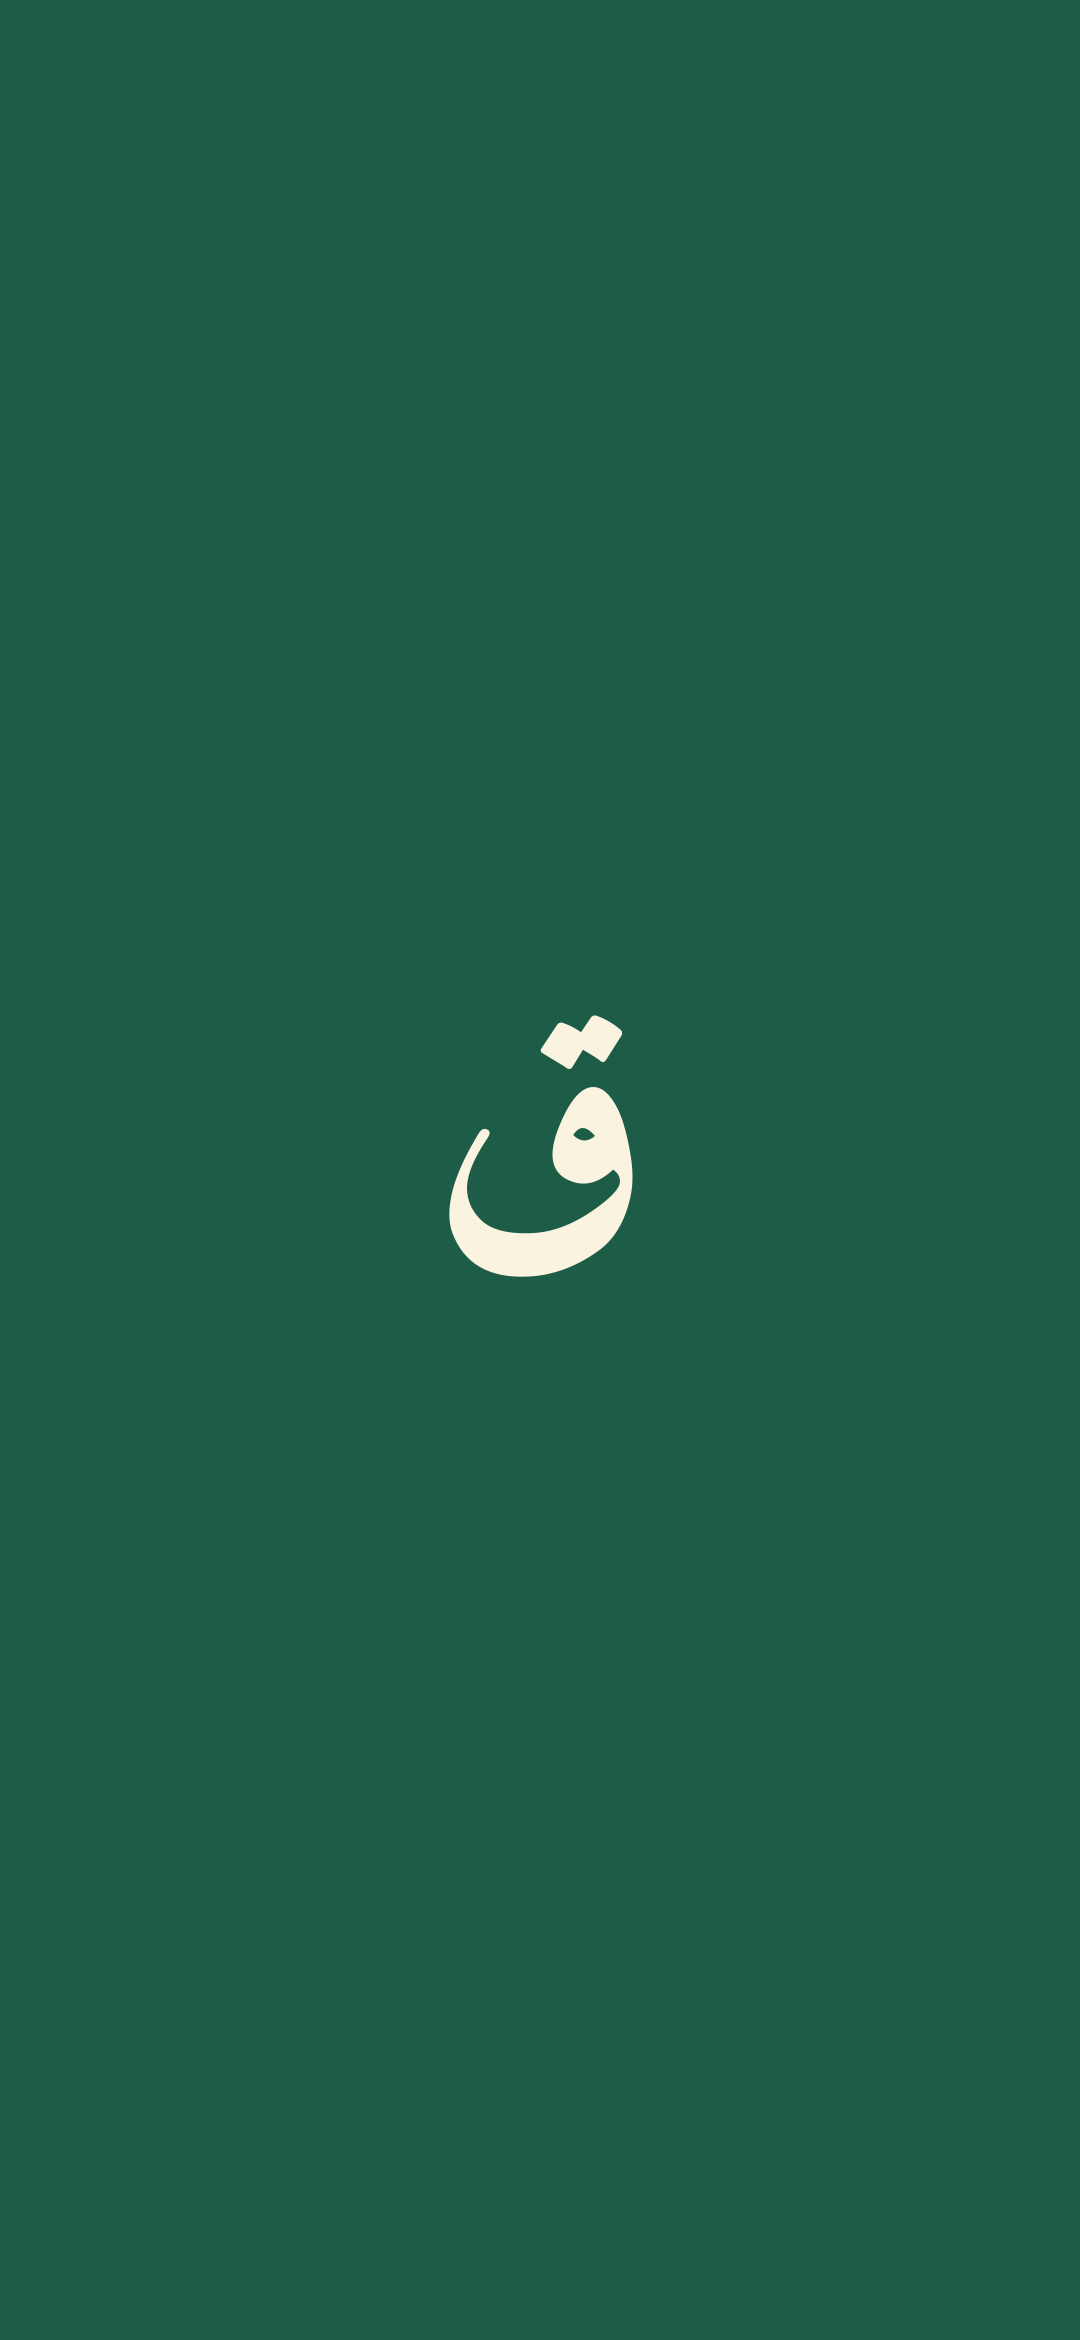
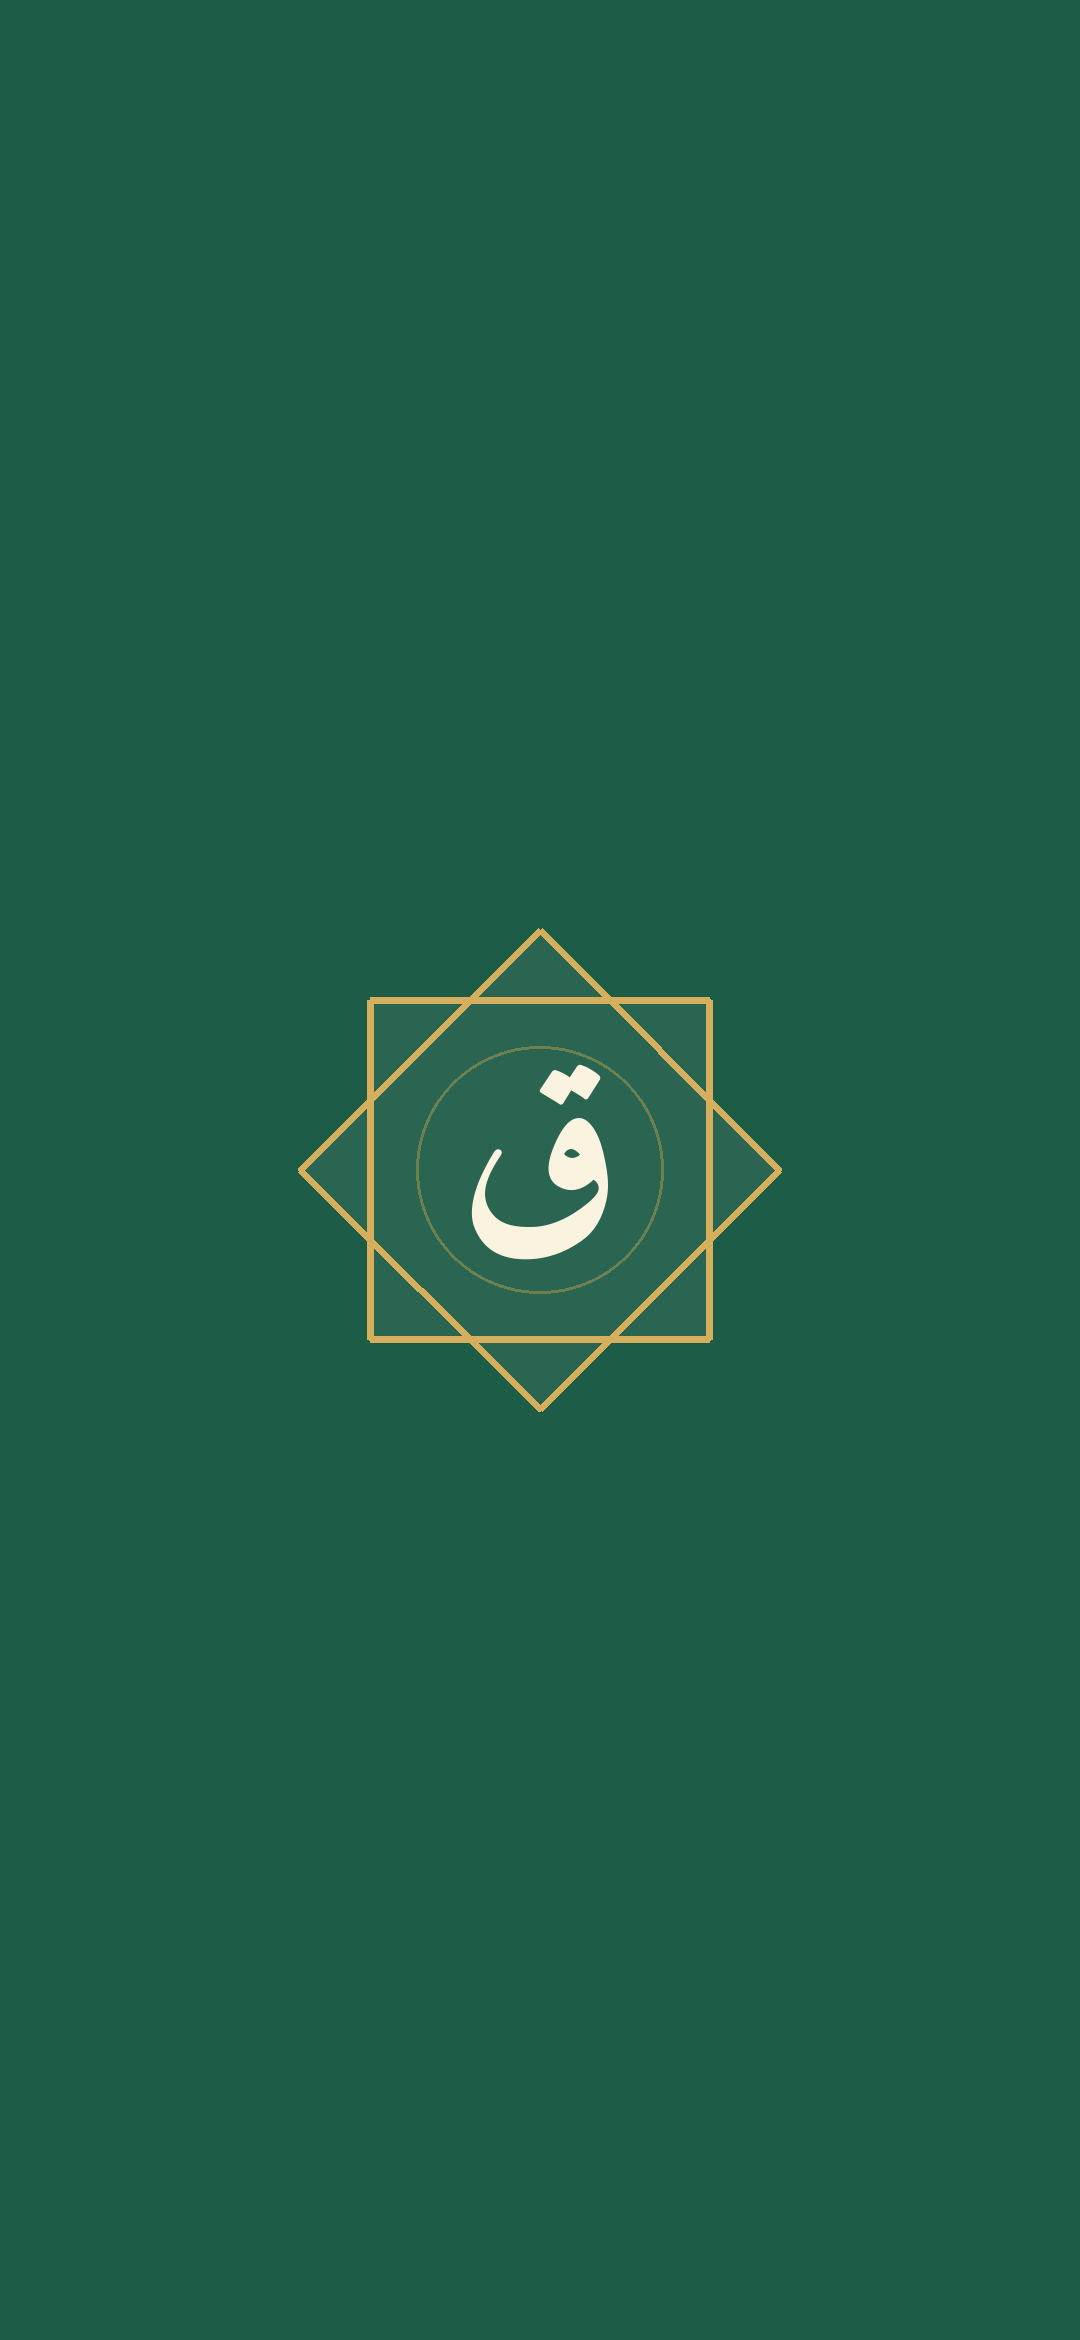
Nouvelle icône, ouverture au calame doré et salutation dans la barre
- Icône : ق crème sur étoile à 8 branches or, dans la zone que les téléphones ne coupent pas
- Écrans de démarrage iPhone et ouverture reprennent la même image : un calame doré repasse
  sur le ق, l'étoile pivote d'un huitième de tour, puis la page s'ouvre (1,2 s)
- « السلام عليكم » + prénom remplace le titre de la barre quelques secondes, sans rien recouvrir

Changed region(s): [[0.275, 0.3744, 0.7028, 0.5927], [0.4889, 0.5927, 0.5194, 0.6239]]

diff --git a/src/app/globals.css b/src/app/globals.css
@@ -3529,7 +3529,7 @@ button:active:not(:disabled),
   margin-left: 0;
 }
 
-/* ---------- Ouverture de l'appli installée (calligraphie) ---------------- */
+/* ---------- Ouverture de l'appli installée (calame doré) ---------------- */
 .ouverture {
   display: none;
 }
@@ -3540,75 +3540,72 @@ html[data-ouverture] .ouverture {
   display: grid;
   place-items: center;
   background: #1d5c47;
-  animation: ouverture-fondu 0.35s ease-in 1.15s forwards;
+  animation: ouverture-fondu 0.32s ease-in 0.95s forwards;
 }
+/* Même taille que l'image de l'écran de démarrage : l'enchaînement est invisible. */
 .ouverture-logo {
-  width: min(46vw, 210px);
+  width: min(56vw, 260px);
   height: auto;
   overflow: visible;
-  animation: ouverture-envol 0.5s cubic-bezier(0.4, 0, 0.2, 1) 1.05s forwards;
+  animation: ouverture-envol 0.45s cubic-bezier(0.4, 0, 0.2, 1) 0.85s forwards;
 }
-/* Le ق : tracé à la plume, puis rempli d'encre crème. */
-.ouverture-trait {
+.ouverture-etoile {
+  transform-origin: 100px 100px;
+  animation: ouverture-pivot 0.9s cubic-bezier(0.45, 0, 0.2, 1) 0.15s both;
+}
+.ouverture-etoile rect {
+  fill: rgba(255, 255, 255, 0.055);
+  stroke: #d6af5c;
+  stroke-width: 2.4;
+  stroke-linejoin: round;
+}
+.ouverture-etoile circle {
+  fill: none;
+  stroke: #d6af5c;
+  stroke-opacity: 0.43;
+  stroke-width: 1;
+}
+.ouverture-lettre {
   fill: #faf3e0;
-  fill-opacity: 0;
-  stroke: #faf3e0;
-  stroke-width: 22;
+}
+/* Le calame : un trait or qui parcourt la lettre, puis s'efface. */
+.ouverture-calame {
+  fill: none;
+  stroke: #e6c47a;
+  stroke-width: 44;
   stroke-linecap: round;
   stroke-linejoin: round;
   stroke-dasharray: 1;
   stroke-dashoffset: 1;
 }
-.ouverture-corps {
+.ouverture-calame-corps {
   animation:
-    ouverture-plume 0.62s cubic-bezier(0.55, 0.1, 0.35, 1) forwards,
-    ouverture-encre 0.28s ease-out 0.5s forwards;
+    ouverture-plume 0.6s cubic-bezier(0.55, 0.1, 0.35, 1) 0.05s forwards,
+    ouverture-dore 0.35s ease-out 0.6s forwards;
 }
-.ouverture-points {
+.ouverture-calame-points {
   animation:
-    ouverture-plume 0.24s ease-out 0.48s forwards,
-    ouverture-encre 0.24s ease-out 0.62s forwards;
-}
-/* Cadre or, comme sur l'icône. */
-.ouverture-cadre {
-  fill: none;
-  stroke: #c9a24a;
-  stroke-width: 3.5;
-  stroke-linecap: round;
-  stroke-dasharray: 1;
-  stroke-dashoffset: 1;
-  animation: ouverture-plume 0.5s ease-in-out 0.6s forwards;
-}
-/* Étoile à 8 branches en filigrane derrière la lettre. */
-.ouverture-etoile rect {
-  fill: none;
-  stroke: #c9a24a;
-  stroke-width: 1.2;
-  stroke-opacity: 0;
-  stroke-dasharray: 1;
-  stroke-dashoffset: 1;
-  animation: ouverture-etoile 0.7s ease-out 0.7s forwards;
+    ouverture-plume 0.22s ease-out 0.55s forwards,
+    ouverture-dore 0.3s ease-out 0.72s forwards;
 }
 @keyframes ouverture-plume {
   to {
     stroke-dashoffset: 0;
   }
 }
-@keyframes ouverture-encre {
+@keyframes ouverture-dore {
   to {
-    fill-opacity: 1;
-    stroke-width: 0;
+    stroke-opacity: 0;
   }
 }
-@keyframes ouverture-etoile {
+@keyframes ouverture-pivot {
   to {
-    stroke-dashoffset: 0;
-    stroke-opacity: 0.28;
+    transform: rotate(45deg);
   }
 }
 @keyframes ouverture-envol {
   to {
-    transform: scale(1.08);
+    transform: scale(1.1);
   }
 }
 @keyframes ouverture-fondu {
@@ -3618,83 +3615,49 @@ html[data-ouverture] .ouverture {
   }
 }
 
-/* ---------- Salutation « السلام عليكم » ----------------------------------- */
-.salutation {
-  position: fixed;
-  left: 50%;
-  top: calc(env(safe-area-inset-top) + 84px);
-  z-index: 90;
+
+/* ---------- Salutation dans la barre du haut ----------------------------- */
+.barre-titre-zone {
+  position: relative;
+  display: grid;
+}
+.barre-titre-zone > * {
+  grid-area: 1 / 1;
+  transition:
+    opacity 0.5s ease,
+    transform 0.5s cubic-bezier(0.2, 0.8, 0.2, 1);
+}
+.barre-salutation {
   display: flex;
-  flex-direction: column;
-  align-items: center;
-  gap: 2px;
-  min-width: 190px;
-  padding: 12px 26px 10px;
-  border-radius: 18px;
-  background: var(--carte);
-  border: 1px solid var(--bord-or);
-  box-shadow: 0 14px 34px rgba(11, 42, 32, 0.18);
-  text-align: center;
-  cursor: pointer;
-  transform: translateX(-50%);
-  animation: salutation-entree 0.5s cubic-bezier(0.2, 0.9, 0.25, 1.15) both;
+  align-items: baseline;
+  gap: 8px;
+  white-space: nowrap;
+  opacity: 0;
+  transform: translateY(8px);
+  pointer-events: none;
 }
-.salutation::before {
-  /* Petite étoile à 8 branches dorée, comme dans le motif du site. */
-  content: "";
-  width: 14px;
-  height: 14px;
-  margin-bottom: 4px;
-  background: var(--or);
-  clip-path: polygon(
-    50% 0,
-    62% 26%,
-    85% 15%,
-    74% 38%,
-    100% 50%,
-    74% 62%,
-    85% 85%,
-    62% 74%,
-    50% 100%,
-    38% 74%,
-    15% 85%,
-    26% 62%,
-    0 50%,
-    26% 38%,
-    15% 15%,
-    38% 26%
-  );
-}
-.salutation-arabe {
+.barre-salutation-arabe {
   font-family: var(--font-arabe), "Amiri", serif;
-  font-size: 26px;
+  font-size: 21px;
   font-weight: 700;
-  line-height: 1.3;
-  color: var(--vert-texte);
+  line-height: 1.1;
+  color: #f0d796;
 }
-.salutation-prenom {
-  font-size: 15px;
-  font-weight: 600;
-  color: var(--texte);
+.barre-salutation-prenom {
+  font-size: 16px;
+  font-weight: 700;
+  color: #fff;
 }
-.salutation-sortie {
-  animation: salutation-sortie 0.45s ease-in forwards;
+.barre-titre-zone.salue .barre-titre {
+  opacity: 0;
+  transform: translateY(-8px);
 }
-@keyframes salutation-entree {
-  from {
-    opacity: 0;
-    transform: translate(-50%, -14px) scale(0.96);
-  }
-}
-@keyframes salutation-sortie {
-  to {
-    opacity: 0;
-    transform: translate(-50%, -10px) scale(0.98);
-  }
+.barre-titre-zone.salue .barre-salutation {
+  opacity: 1;
+  transform: none;
 }
 @media (prefers-reduced-motion: reduce) {
-  .salutation,
-  .salutation-sortie {
-    animation-duration: 0.01s;
+  .barre-titre-zone > * {
+    transition-duration: 0.01s;
   }
 }

diff --git a/src/components/OuvertureAppli.tsx b/src/components/OuvertureAppli.tsx
@@ -1,9 +1,10 @@
 /**
- * Ouverture de l'appli installée, façon calligraphie :
- * le ق se trace comme à la plume (le corps, puis les deux points), s'emplit d'encre,
- * le cadre or se dessine, une étoile à 8 branches apparaît en filigrane, puis fondu vers la page.
- * Environ 1,5 s, une fois par ouverture, seulement dans l'appli installée, jamais si le
- * téléphone demande de réduire les animations ; un appui la passe.
+ * Ouverture de l'appli installée, dans la continuité de l'écran de démarrage
+ * (même image : étoile à 8 branches or et ق crème) :
+ * un calame doré repasse sur le ق (le corps, puis les deux points), l'étoile pivote
+ * d'un huitième de tour, puis tout s'ouvre sur la page. Environ 1,2 s.
+ * Une fois par ouverture, seulement dans l'appli installée, jamais si le téléphone
+ * demande de réduire les animations ; un appui la passe.
  * Pur HTML/CSS : le script du layout ajoute data-ouverture sur <html>.
  */
 export function OuvertureAppli() {
@@ -11,18 +12,26 @@ export function OuvertureAppli() {
     <div className="ouverture" aria-hidden="true">
       <svg viewBox="0 0 200 200" className="ouverture-logo">
         <g className="ouverture-etoile">
-          <rect x="40" y="40" width="120" height="120" pathLength={1} />
-          <rect x="40" y="40" width="120" height="120" pathLength={1} transform="rotate(45 100 100)" />
+          <rect x="44" y="44" width="112" height="112" />
+          <rect x="44" y="44" width="112" height="112" transform="rotate(45 100 100)" />
+          <circle cx="100" cy="100" r="41" />
         </g>
-        <rect className="ouverture-cadre" x="16" y="16" width="168" height="168" rx="30" pathLength={1} />
-        <g transform="translate(100 96) scale(0.1240 -0.1240) translate(-346.3 -224.7)">
+        <g transform="translate(100 97.6) scale(0.0800 -0.0800) translate(-346.3 -224.7)">
           <path
-            className="ouverture-trait ouverture-corps"
+            className="ouverture-lettre"
+            d="M508 407Q537 407 562 374Q585 345 600.0 299.0Q615 253 625 190Q630 159 629.0 128.5Q628 98 622 70Q597 -48 518 -102Q465 -139 411.5 -157.5Q358 -176 305 -178Q125 -186 72 -41Q58 -1 67 56Q80 142 154 264Q166 283 180 276Q195 269 181 249Q118 156 118 95Q118 37 164 -6Q210 -48 317 -44Q424 -40 534 46Q588 88 590 113Q592 137 569 152Q501 88 433 119Q351 155 401 282Q451 408 508 407ZM513 256Q492 280 475 280Q460 280 446 259Q459 245 479 243Q497 242 513 256Z"
+          />
+          <path
+            className="ouverture-lettre"
+            d="M501 622Q507 630 518 627Q538 620 557.0 609.0Q576 598 592 584Q600 576 595 566L547 490Q539 479 529 488Q525 492 511.5 500.5Q498 509 476 522L443 468Q436 458 425 466Q420 470 401.5 481.0Q383 492 352 511Q341 517 349 528L397 600Q403 608 414 605Q444 595 470 576Z"
+          />
+          <path
+            className="ouverture-calame ouverture-calame-corps"
             pathLength={1}
             d="M508 407Q537 407 562 374Q585 345 600.0 299.0Q615 253 625 190Q630 159 629.0 128.5Q628 98 622 70Q597 -48 518 -102Q465 -139 411.5 -157.5Q358 -176 305 -178Q125 -186 72 -41Q58 -1 67 56Q80 142 154 264Q166 283 180 276Q195 269 181 249Q118 156 118 95Q118 37 164 -6Q210 -48 317 -44Q424 -40 534 46Q588 88 590 113Q592 137 569 152Q501 88 433 119Q351 155 401 282Q451 408 508 407ZM513 256Q492 280 475 280Q460 280 446 259Q459 245 479 243Q497 242 513 256Z"
           />
           <path
-            className="ouverture-trait ouverture-points"
+            className="ouverture-calame ouverture-calame-points"
             pathLength={1}
             d="M501 622Q507 630 518 627Q538 620 557.0 609.0Q576 598 592 584Q600 576 595 566L547 490Q539 479 529 488Q525 492 511.5 500.5Q498 509 476 522L443 468Q436 458 425 466Q420 470 401.5 481.0Q383 492 352 511Q341 517 349 528L397 600Q403 608 414 605Q444 595 470 576Z"
           />

diff --git a/src/components/Salutation.tsx b/src/components/Salutation.tsx
@@ -3,11 +3,12 @@
 import { useEffect, useState } from "react";
 
 /**
- * « السلام عليكم » + prénom, une fois par visite : apparaît en douceur sous la barre
- * (après l'animation d'ouverture dans l'appli), puis s'efface tout seul. Un appui la ferme.
+ * Titre de la barre du haut avec la salutation : une fois par visite, « السلام عليكم » + prénom
+ * prend la place du titre (après l'animation d'ouverture dans l'appli), puis le titre revient
+ * en douceur. Rien ne recouvre la page.
  */
-export function Salutation({ prenom }: { prenom: string }) {
-  const [etat, setEtat] = useState<"cachee" | "visible" | "sortie">("cachee");
+export function TitreBarre({ titre, prenom }: { titre: string; prenom: string }) {
+  const [salue, setSalue] = useState(false);
 
   useEffect(() => {
     let deja = false;
@@ -18,25 +19,21 @@ export function Salutation({ prenom }: { prenom: string }) {
       /* stockage indisponible : on salue quand même */
     }
     if (deja) return;
-    // Dans l'appli, on attend la fin de l'animation d'ouverture.
-    const attente = document.documentElement.hasAttribute("data-ouverture") ? 1400 : 250;
-    const t1 = window.setTimeout(() => setEtat("visible"), attente);
-    const t2 = window.setTimeout(() => setEtat("sortie"), attente + 4200);
-    const t3 = window.setTimeout(() => setEtat("cachee"), attente + 4700);
-    return () => [t1, t2, t3].forEach((t) => window.clearTimeout(t));
+    const attente = document.documentElement.hasAttribute("data-ouverture") ? 1100 : 0;
+    const t1 = window.setTimeout(() => setSalue(true), attente);
+    const t2 = window.setTimeout(() => setSalue(false), attente + 3600);
+    return () => [t1, t2].forEach((t) => window.clearTimeout(t));
   }, []);
 
-  if (etat === "cachee") return null;
   return (
-    <div
-      className={etat === "sortie" ? "salutation salutation-sortie" : "salutation"}
-      role="status"
-      onClick={() => setEtat("sortie")}
-    >
-      <span className="salutation-arabe" lang="ar" dir="rtl">
-        السلام عليكم
+    <span className={salue ? "barre-titre-zone salue" : "barre-titre-zone"}>
+      <span className="barre-titre">{titre}</span>
+      <span className="barre-salutation" aria-hidden={!salue}>
+        <span className="barre-salutation-arabe" lang="ar" dir="rtl">
+          السلام عليكم
+        </span>
+        {prenom ? <span className="barre-salutation-prenom">{prenom}</span> : null}
       </span>
-      {prenom ? <span className="salutation-prenom">{prenom}</span> : null}
-    </div>
+    </span>
   );
 }

diff --git a/src/app/layout.tsx b/src/app/layout.tsx
@@ -131,7 +131,7 @@ export default function RootLayout({ children }: { children: React.ReactNode }) 
         <Script id="installation-appli" strategy="beforeInteractive">
           {`window.addEventListener("beforeinstallprompt",function(e){e.preventDefault();window.__invitationInstallation=e;window.dispatchEvent(new Event("installation-disponible"));});
 if("serviceWorker" in navigator){window.addEventListener("load",function(){navigator.serviceWorker.register("/sw.js").catch(function(){});});}
-try{var appli=matchMedia("(display-mode: standalone)").matches||navigator.standalone===true;var calme=matchMedia("(prefers-reduced-motion: reduce)").matches;if(appli&&!calme&&!sessionStorage.getItem("ouverture")){sessionStorage.setItem("ouverture","1");var h=document.documentElement;h.setAttribute("data-ouverture","");var fin=function(){h.removeAttribute("data-ouverture");};setTimeout(fin,1600);addEventListener("pointerdown",fin,{once:true});}}catch(e){}`}
+try{var appli=matchMedia("(display-mode: standalone)").matches||navigator.standalone===true;var calme=matchMedia("(prefers-reduced-motion: reduce)").matches;if(appli&&!calme&&!sessionStorage.getItem("ouverture")){sessionStorage.setItem("ouverture","1");var h=document.documentElement;h.setAttribute("data-ouverture","");var fin=function(){h.removeAttribute("data-ouverture");};setTimeout(fin,1350);addEventListener("pointerdown",fin,{once:true});}}catch(e){}`}
         </Script>
         {/* Vercel Speed Insights : vitesse réelle mesurée chez les utilisateurs (sans paquet npm). */}
         <Script id="speed-insights-file" strategy="afterInteractive">

diff --git a/src/components/EnteteEspace.tsx b/src/components/EnteteEspace.tsx
@@ -2,7 +2,7 @@ import Link from "next/link";
 import type { Role } from "@/domain/roles";
 import { Avatar } from "./Avatar";
 import { NavigationEspace } from "./NavigationEspace";
-import { Salutation } from "./Salutation";
+import { TitreBarre } from "./Salutation";
 
 const LIBELLE_ROLE: Record<Role, string> = { eleve: "Élève", maitre: "Cheikh", admin: "Administrateur" };
 
@@ -21,7 +21,7 @@ export function EnteteEspace({ titre, nom, role }: { titre: string; nom: string;
             </div>
             <div className="barre-titres" aria-hidden="true">
               <span className="barre-app">Suivi cours Coran</span>
-              <span className="barre-titre">{titre}</span>
+              <TitreBarre titre={titre} prenom={nom.split(/\s+/)[0] ?? ""} />
             </div>
           </Link>
           <NavigationEspace role={role} />
@@ -35,7 +35,6 @@ export function EnteteEspace({ titre, nom, role }: { titre: string; nom: string;
           </Link>
         </div>
       </header>
-      <Salutation prenom={nom.split(/\s+/)[0] ?? ""} />
     </>
   );
 }
